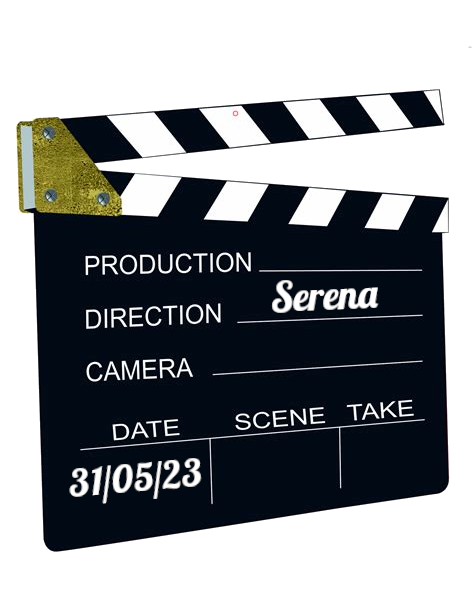
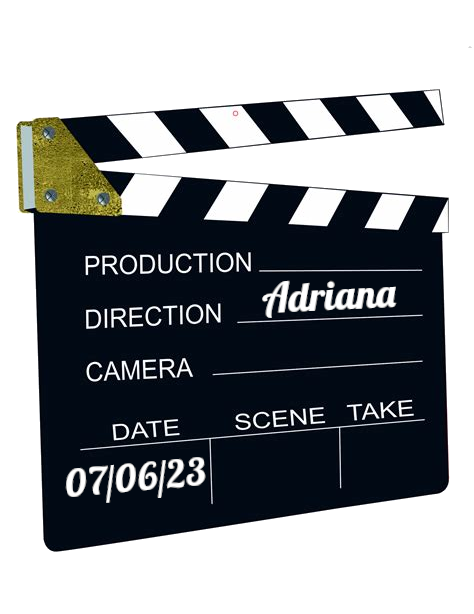
Pazzia 2

Changed region(s): [[0.1181, 0.7427, 0.443, 0.8355], [0.5612, 0.4332, 0.8565, 0.5261]]

diff --git a/index.html b/index.html
@@ -34,13 +34,24 @@
 
 <br /><br />
 
-<h1>Mercoled&igrave; 31 maggio 2023</h1>
+<h1>Mercoled&igrave; 7 giugno 2023</h1>
 <h2>Alle 20:30 in Via Nizza, 72</h2>
 <img src="img/ciak.png" class="locandina"/>
-<h2>Tema: <i>Pazzia</i> - Selezionatrice: <i>Serena</i></h2>
+<h2>Tema: <i>Pazzia</i> - Selezionatrice: <i>Adriana</i></h2>
 
 
 <br /><br /><hr width="90%"><hr width="90%"><br /><br />
+
+<h1>Mercoled&igrave; 31 maggio 2023</h1>
+<p class="mtitle">
+<a href="https://www.imdb.com/title/tt1847731" target="_blank">Tomboy</a>
+</p>
+<img src="https://image.tmdb.org/t/p/w500/xACHMezayZLeKv5kqh1Cio2JHUY.jpg" class="locandina"/>
+<h2>Tema: <i>Pazzia</i> - Selezionatrice: <i>Serena</i></h2>
+
+
+<br /><br /><hr width="90%"><br /><br />
+
 
 <h1>Mercoled&igrave; 24 maggio 2023</h1>
 <p class="mtitle">

diff --git a/movieslist.html b/movieslist.html
@@ -29,6 +29,17 @@ Rassegnamoci, Cineforum a Programma Variabile - Elenco Film
   </thead>
   <tbody>
     <tr>
+      <td>31-May-2023</td>
+      <td>Tomboy</td>
+      <td>Serena</td>
+      <td>Pazzia</td>
+      <td>2011</td>
+      <td>Céline Sciamma</td>
+      <td>78</td>
+      <td>FR</td>
+      <td><a href="https://www.imdb.com/title/tt1847731" target="_blank">https://www.imdb.com/title/tt1847731</a></td>
+    </tr>
+    <tr>
       <td>24-May-2023</td>
       <td>Chi ha paura di Virginia Woolf?</td>
       <td>Giuliano</td>
